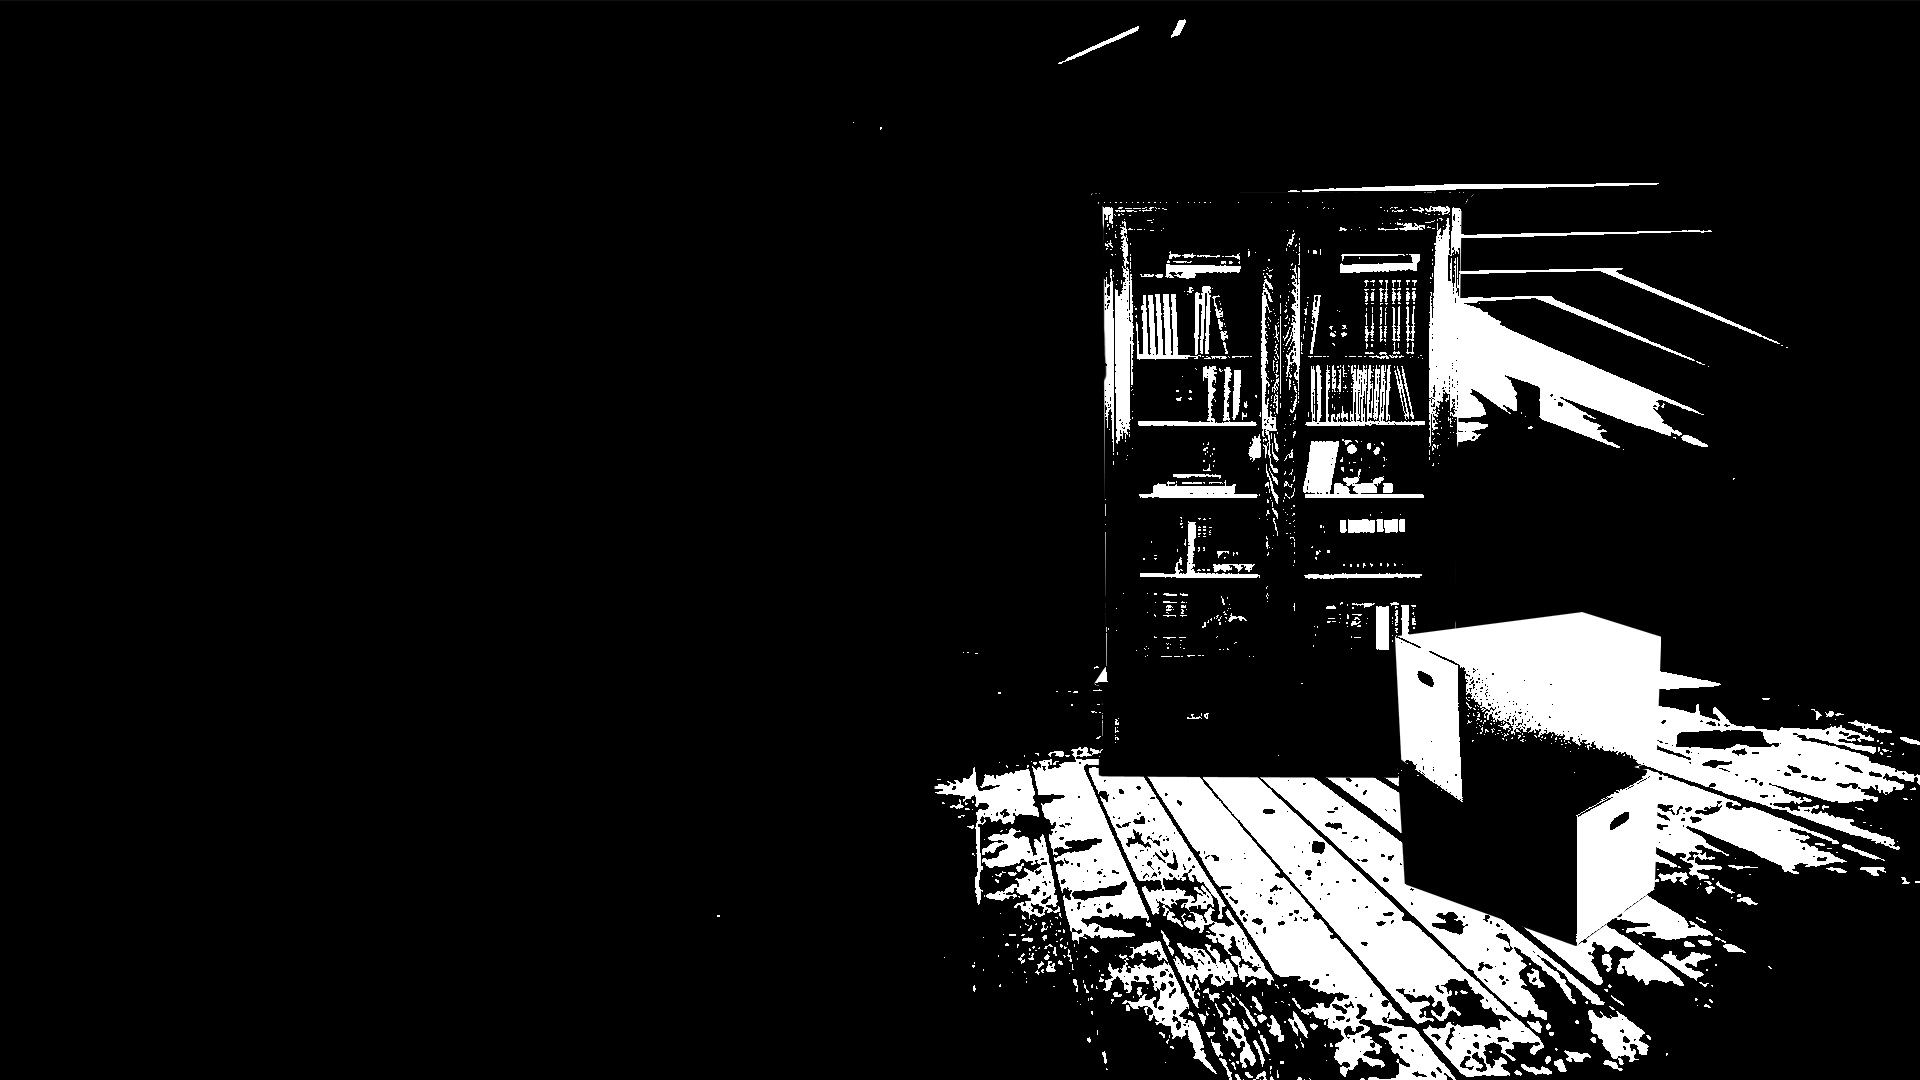
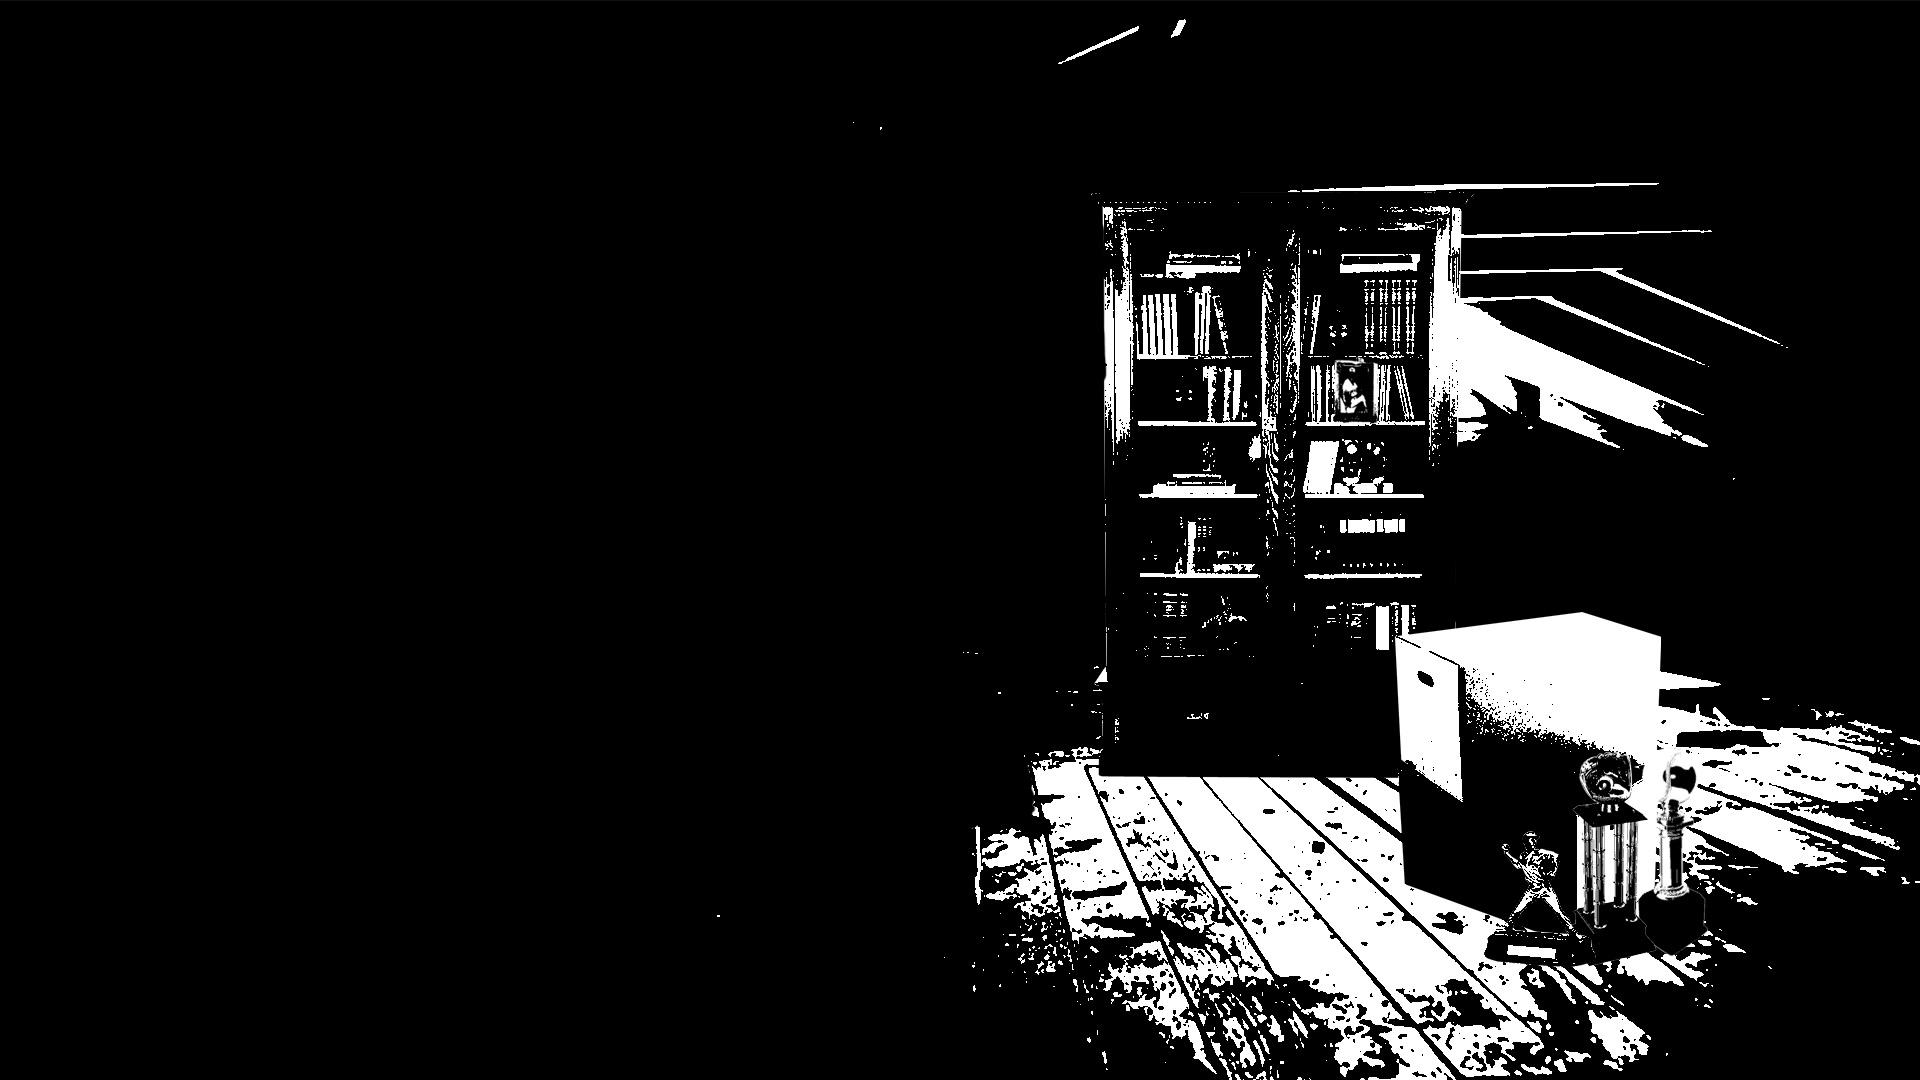
added end screen

Changed region(s): [[0.75, 0.7028, 0.9062, 0.9167], [0.5, 0.7028, 0.5625, 0.7639], [0.6875, 0.3361, 0.7188, 0.3972]]

diff --git a/index.html b/index.html
@@ -166,9 +166,9 @@ Washington Angels 2
 
 New Mexico Vipers 6
 Tennessee Tigers 5]
-(align:&quot;=&gt;&lt;=&quot;)[3](align:&quot;==&gt;&quot;)[(link: &quot;Close book&quot;)[(go-to: &quot;page 4&quot;)]]</tw-passagedata><tw-passagedata pid="16" name="page 4" tags="" position="1000,1175" size="100,100">You sit there, blankly, holding the almanac and staring distantly at the box of Father&#39;s accolades. You re-examine the cobwebs, the dust, the rusted gold on the medals, and wonder if perhaps this is their true legacy. When you close your eyes, you see flashes of his pitching, but you can&#39;t get your mind to hold focus on it for long enough. As you resume your gaze, you stare at Father&#39;s portrait frame; tears seem to drop from your eyes, but your face remains still. As you look at his photographed smile, you hear echoes of footsteps walking towards the attic ladder. You recognise that sound from anywhere.
+(align:&quot;=&gt;&lt;=&quot;)[3](align:&quot;==&gt;&quot;)[(link: &quot;Close book&quot;)[(go-to: &quot;page 4&quot;)]]</tw-passagedata><tw-passagedata pid="16" name="page 4" tags="attic" position="1000,1175" size="100,100">(align:&quot;&lt;==&quot;)+(box:&quot;XXX==&quot;)[You sit there, blankly, holding the almanac and staring distantly at the box of Father&#39;s accolades. You re-examine the cobwebs, the dust, the rusted gold on the medals, and wonder if perhaps this is their true legacy. When you close your eyes, you see flashes of his pitching, but you can&#39;t get your mind to hold focus on it for long enough. As you resume your gaze, you stare at Father&#39;s portrait frame; tears seem to drop from your eyes, but your face remains still. As you look at his photographed smile, you hear echoes of footsteps walking towards the attic ladder. You recognise that sound from anywhere.
 
-[[End]].
+[[End]].]
 
 (enchant: ?passage&#39;s chars, via (t8n-delay:pos * 60) +(t8n-skip:100s) + (t8n:&#39;instant&#39;))</tw-passagedata><tw-passagedata pid="17" name="End" tags="" position="1000,1300" size="100,100">(link: &quot;Play again&quot;)[(go-to:&quot;The Attic&quot;)]</tw-passagedata></tw-storydata>
 <script title="Twine engine code" data-main="harlowe">(function(){"use strict";
